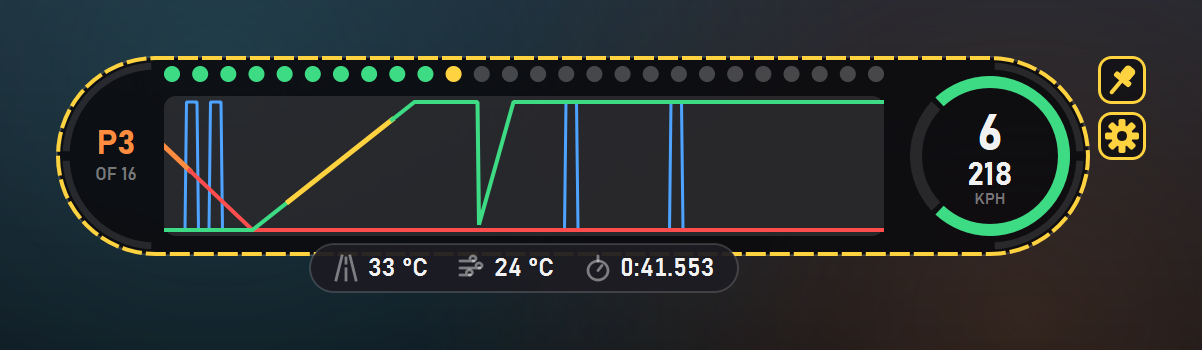
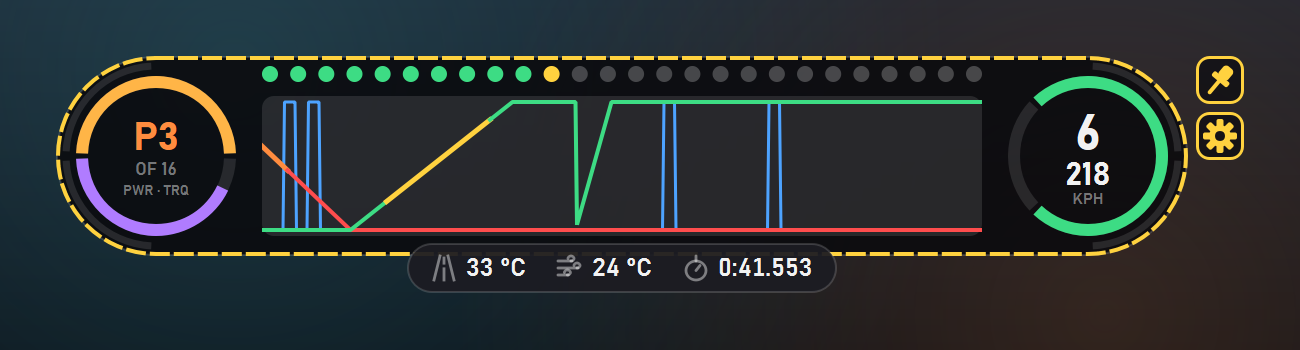
Add an energy ring around the position: battery on hybrids, else power/torque
The left end now holds a ring like the pedal ring around the position. Hybrids (graphics.has_kers): top half = battery charge (kers_charge_perc), bottom half = live flow (kers_current_perc), purple deploying / green recovering - verified live on the Ferrari SF25, where physics kersCharge/kersInput/kersCurrentKJ stay 0. Other cars: power and torque against the car's session peak. Both rings share draw_tracks; the HUD is 566 px wide.

diff --git a/ace_overlay/overlay.py b/ace_overlay/overlay.py
@@ -16,6 +16,10 @@ BRAKE = QColor("#ff4d4d")
 CLUTCH = QColor("#4da3ff")
 YELLOW = QColor("#ffd23f")
 ORANGE = QColor("#ff8c3f")
+CHARGE = QColor("#29d3e6")  # energy ring: battery charge
+POWER = QColor("#ffb547")  # energy ring: engine power (cars without a battery)
+OUTPUT = QColor("#b07cff")  # energy ring: battery deploying / engine torque
+REGEN = QColor("#5ee6a8")  # energy ring: battery recovering energy
 BG = QColor(12, 12, 16, 180)
 PILL_BG = QColor(10, 10, 14, 225)
 EDGE = QColor(255, 255, 255, 40)
@@ -25,22 +29,23 @@ TEXT = QColor("#f2f2f2")
 DIM = QColor(255, 255, 255, 110)
 
 # The pill. Its rounded ends carry the TC / ABS arcs (left end = car's left wheels, right end = right
-# wheels; upper quarter TC, lower quarter ABS). The position sits inside the left end; then the dot shift
-# lights along the top edge over the trace; then the gear ring (with the speed) inside the right end.
-# The chip hangs below the bottom edge.
+# wheels; upper quarter TC, lower quarter ABS). Inside the left end: the energy ring (battery, or power
+# and torque) around the position. Then the dot shift lights along the top edge over the trace. Inside
+# the right end: the pedal ring around the gear and speed. The chip hangs below the bottom edge.
 PH = 100  # pill height
 R = PH // 2  # end radius
 CHIP_H, CHIP_OVERLAP = 24, 6  # the chip only tucks this far up into the pill
 H = PH + CHIP_H - CHIP_OVERLAP + 1
 ARC_R, ARC_W = R - 5, 3.5  # TC / ABS end arcs: radius (to stroke centre) and stroke
-POS_X, POS_W = R - 37, 34  # the position fits inside the left end's half circle
+RING_R, RING_W = 37, 6  # both rings: radius (to stroke centre) and stroke
+ENERGY_CX = R  # energy ring, concentric with the left end
 DOT_Y, DOT_D = 9, 8  # shift-light row centre (close to the top edge) and dot diameter
-TRACE_X, TRACE_Y, TRACE_W = R + 4, 20, 360  # starts right next to the left end; window is Config.trace_seconds
+TRACE_X, TRACE_Y, TRACE_W = ENERGY_CX + RING_R + 16, 20, 360  # the time window is Config.trace_seconds
 TRACE_H = PH - CHIP_OVERLAP - 4 - TRACE_Y  # down to just above the chip
-RING_R, RING_W = 37, 6
-RING_CX, RING_CY = TRACE_X + TRACE_W + 16 + RING_R, R  # gear ring, concentric with the right end
+RING_CX, RING_CY = TRACE_X + TRACE_W + 16 + RING_R, R  # pedal ring, concentric with the right end
 W = RING_CX + R
 CHIP_CX = TRACE_X + TRACE_W / 2  # chip centred under the trace
+POWER_FLOOR_HP, TORQUE_FLOOR_NM = 100.0, 100.0  # minimum full scale for the power / torque halves
 
 SHIFT_LEDS = 26  # thresholds and colours come from Config
 AID_HOLD_S = 0.15  # keep a TC/ABS light flashing briefly so single-step triggers are visible
@@ -261,6 +266,7 @@ class InputsOverlay(OverlayWindow):
         self.settings_dialog = None
         self.frame = self.graphics = None
         self.last_driving = float("-inf")  # last time is_driving() was true
+        self.engine_car, self.peak_hp, self.peak_torque = None, 0.0, 0.0  # see track_engine()
         self.trace = deque()  # (time, gas, brake, clutch, tc_working, abs_working) for every tick
         self.aid_trace_until = {"tc": 0.0, "abs": 0.0}  # car-wide, for the trace colouring
         # (aid, side) -> time that end arc stops flashing; side 0 = left, 1 = right
@@ -286,6 +292,8 @@ class InputsOverlay(OverlayWindow):
     def tick(self):
         f = self.frame = self.source.read()
         self.graphics = self.source.graphics
+        if self.graphics is not None:
+            self.track_engine(self.graphics)
         now = time.monotonic()
         if is_driving(self.graphics):
             self.last_driving = now
@@ -332,7 +340,7 @@ class InputsOverlay(OverlayWindow):
         self.draw_ring(p, f)
         self.draw_dots(p, f)
         self.draw_trace(p)
-        self.draw_position(p)
+        self.draw_energy(p, f)
         self.draw_chip(p, f)
 
     def draw_end_arcs(self, p):
@@ -349,20 +357,25 @@ class InputsOverlay(OverlayWindow):
                 p.setPen(QPen(color if on else TRACK, ARC_W + (1.5 if on else 0), Qt.SolidLine, Qt.FlatCap))
                 p.drawArc(box, int((start + gap / 2) * 16), int((90 - gap) * 16))
 
-    def draw_ring(self, p, f):
-        """Gear and speed in a ring: throttle fills 3/4 of it clockwise over the top and right
-        (green), brake fills the west quarter downwards (red). Both start at the top-left."""
-        box = QRectF(RING_CX - RING_R, RING_CY - RING_R, 2 * RING_R, 2 * RING_R)
-        gap = 4  # degrees between the two tracks
-        throttle = (135 - gap / 2, -(270 - gap))  # (start, full span), Qt angles: CCW from 3 o'clock
-        brake = (135 + gap / 2, 90 - gap)
-        for (start, span), value, color in ((throttle, f.gas, THROTTLE), (brake, f.brake, BRAKE)):
+    @staticmethod
+    def draw_tracks(p, cx, tracks):
+        """A ring of arc tracks centred on (cx, R): each track is (start, full span, value 0..1, colour)
+        in Qt angles (degrees, CCW from 3 o'clock), filled from its start."""
+        box = QRectF(cx - RING_R, R - RING_R, 2 * RING_R, 2 * RING_R)
+        for start, span, value, color in tracks:
             p.setPen(QPen(TRACK, RING_W, Qt.SolidLine, Qt.FlatCap))
             p.drawArc(box, int(start * 16), int(span * 16))
             value = max(0.0, min(1.0, value))
             if value > 0.005:
                 p.setPen(QPen(color, RING_W, Qt.SolidLine, Qt.FlatCap))
                 p.drawArc(box, int(start * 16), int(span * value * 16))
+
+    def draw_ring(self, p, f):
+        """Gear and speed in a ring: throttle fills 3/4 of it clockwise over the top and right
+        (green), brake fills the west quarter downwards (red). Both start at the top-left."""
+        gap = 4  # degrees between the two tracks
+        self.draw_tracks(p, RING_CX, ((135 - gap / 2, -(270 - gap), f.gas, THROTTLE),
+                                      (135 + gap / 2, 90 - gap, f.brake, BRAKE)))
         gear = "R" if f.gear == 0 else "N" if f.gear == 1 else str(f.gear - 1)
         cx, cy, w = RING_CX, RING_CY, 56
         p.setPen(TEXT)
@@ -430,16 +443,51 @@ class InputsOverlay(OverlayWindow):
             p.drawPath(run)
         p.restore()
 
-    def draw_position(self, p):
+    def track_engine(self, g):
+        """Peak power and torque for the current car, the full scale of the energy ring's halves.
+        Reset when the car changes."""
+        car = bytes(g.car_model)
+        if car != self.engine_car:
+            self.engine_car, self.peak_hp, self.peak_torque = car, 0.0, 0.0
+        self.peak_hp = max(self.peak_hp, g.current_bhp)
+        self.peak_torque = max(self.peak_torque, g.current_torque)
+
+    def energy(self, f, g):
+        """(label, top value, top colour, bottom value, bottom colour) for the energy ring: battery
+        charge and live usage on hybrids, otherwise power and torque against this car's session peak.
+
+        Verified live on the Ferrari SF25: kers_charge_perc is the charge (0..1) and kers_current_perc the
+        live flow, -1..+1 (positive deploying on throttle, negative recovering under braking). The
+        physics kersCharge / kersInput / kersCurrentKJ stay 0 in EVO.
+        """
+        if g is None:
+            return "PWR · TRQ", 0.0, POWER, 0.0, OUTPUT
+        if g.has_kers:
+            flow = g.kers_current_perc
+            return "BATT", g.kers_charge_perc, CHARGE, abs(flow), OUTPUT if flow >= 0 else REGEN
+        return ("PWR · TRQ", g.current_bhp / max(self.peak_hp, POWER_FLOOR_HP), POWER,
+                g.current_torque / max(self.peak_torque, TORQUE_FLOOR_NM), OUTPUT)
+
+    def draw_energy(self, p, f):
+        """Ring in the left end around the position: the top half fills clockwise from the west with
+        battery charge (or power), the bottom half the other way with live battery flow (purple
+        deploying, green recovering) or torque."""
         g = self.graphics
+        label, top, top_color, bottom, bottom_color = self.energy(f, g)
+        gap = 4
+        self.draw_tracks(p, ENERGY_CX, ((180 - gap / 2, -(180 - gap), top, top_color),
+                                        (180 + gap / 2, 180 - gap, bottom, bottom_color)))
+        cx, cy, w = ENERGY_CX, R, 56
         pos = g.current_pos if g is not None else 0
         p.setPen(ORANGE if pos else DIM)
-        p.setFont(font(13, QFont.Bold))
-        p.drawText(QRectF(POS_X, R - 17, POS_W, 22), Qt.AlignCenter, f"P{pos}" if pos else "P–")
+        p.setFont(font(15, QFont.Bold))
+        p.drawText(QRectF(cx - w / 2, cy - 21, w, 22), Qt.AlignHCenter | Qt.AlignBottom, f"P{pos}" if pos else "P–")
+        p.setPen(DIM)
         if pos and g.total_drivers:
-            p.setPen(DIM)
             p.setFont(font(6.5))
-            p.drawText(QRectF(POS_X, R + 4, POS_W, 11), Qt.AlignCenter, f"OF {g.total_drivers}")
+            p.drawText(QRectF(cx - w / 2, cy + 2, w, 10), Qt.AlignCenter, f"OF {g.total_drivers}")
+        p.setFont(font(5.5))
+        p.drawText(QRectF(cx - w / 2, cy + 13, w, 9), Qt.AlignCenter, label)
 
     def draw_chip(self, p, f):
         """Track temperature · air temperature · current lap, in a chip hanging below the pill."""

diff --git a/ace_overlay/demo.py b/ace_overlay/demo.py
@@ -101,6 +101,10 @@ class DemoSource:
             p.tyreTempI[w], p.tyreTempM[w], p.tyreTempO[w] = self._temps[w]
         p.airTemp, p.roadTemp = 24.0, 33.0
         self.graphics = self._graphics(now, t)
+        # Engine output: a torque curve peaking mid-range, scaled by throttle; engine braking off it.
+        torque = 420 * gas * (0.7 + 0.3 * math.sin(math.pi * rpm / MAX_RPM)) if gas > 0.05 else -40.0
+        self.graphics.current_torque = torque
+        self.graphics.current_bhp = int(max(0.0, torque) * rpm / 7127)  # hp = Nm × rpm / 7127
         return p
 
     def _graphics(self, now, t):

diff --git a/CLAUDE.md b/CLAUDE.md
@@ -46,6 +46,12 @@ python -m venv .venv && .venv\Scripts\pip install -e .[build,dev]
   it read 0.66 on the naturally aspirated BMW M3 E46 CSL, where every boost field stayed 0 over 2,000
   full-throttle samples. Live boost on a real turbo car is still unverified. (The HUD's boost/torque
   bar was dropped in the pill redesign; `current_torque` is live if it's ever needed.)
+- **Hybrid battery (verified live, Ferrari SF25, 2026-10-13):** `graphics.has_kers` tells hybrids
+  apart (False on the Dallara EXP, True on the SF25). `graphics.kers_charge_perc` is the charge (0..1).
+  `graphics.kers_current_perc` is the live flow, −1..+1: positive while deploying (averages +0.20 at
+  full throttle), negative while recovering (−0.80 under braking). Physics `kersCharge`, `kersInput`
+  and `kersCurrentKJ` are **always 0**. `current_bhp` / `current_torque` are live (SF25 peaked at
+  943 hp / 572 Nm).
 - **Always log `graphics.car_model` in live probes.** The user switches cars between sessions, and
   findings must be attributed to the right car.
 - **TC is unverified.** No TC signal fired in a 4-minute recording, possibly because TC never cut in.
@@ -67,8 +73,11 @@ python -m venv .venv && .venv\Scripts\pip install -e .[build,dev]
   be its own window**. See `SideButton` (pin, gear). Those use `WindowDoesNotAcceptFocus` so clicking
   them doesn't take focus from the game.
 - The HUD is a pill. Its rounded ends are thin TC/ABS arc lines (upper quarter TC, lower quarter
-  ABS; left end = car's left wheels, right end = right wheels, via `slipping_sides()`). The position
-  sits inside the left end. Then come the dot shift lights (the only RPM display; there's no RPM
+  ABS; left end = car's left wheels, right end = right wheels, via `slipping_sides()`). Inside the left
+  end, the energy ring (same size and style as the pedal ring, drawn by the shared `draw_tracks`)
+  surrounds the position. Top half: battery charge, or power on non-hybrids. Bottom half: live battery
+  usage, or torque. Both fill from the west. Power and torque scale to the car's session peak
+  (`track_engine`), floored at 100 hp / 100 Nm. Then come the dot shift lights (the only RPM display; there's no RPM
   number; 26 dots along the top edge) over the trace, which starts right after the left end and fills
   the height down to the chip. The gear ring is concentric with the right end: throttle fills 3/4
   clockwise from the top-left (135°) and brake the west quarter, with the gear and speed inside it. A

diff --git a/README.md b/README.md
@@ -28,8 +28,10 @@
   quarter in red.
 - **Shift lights.** A row of 26 dots along the top edge, with configurable colour zones and flash point. They're also
   the RPM readout.
-- **Position.** In the left end of the pill: "P19" (with "of 20" underneath) whenever the game
-  ranks the session.
+- **Energy ring and position.** In the left end of the pill, a ring like the pedal ring surrounds
+  your position ("P19 of 20"). On hybrids, the top half shows battery charge, and the bottom half live
+  battery usage: purple while deploying, green while recovering energy under braking. On other cars it shows engine power (top) and torque (bottom), against the highest
+  values the car has produced this session. A small label inside says which (BATT or PWR · TRQ).
 - **Real-time input trace.** Scrolling throttle, brake and clutch history. The right edge is always
   your live input, and the time window (2–30 s) can be changed on the fly. The brake line turns orange
   while ABS works, and the throttle line yellow while TC cuts.
